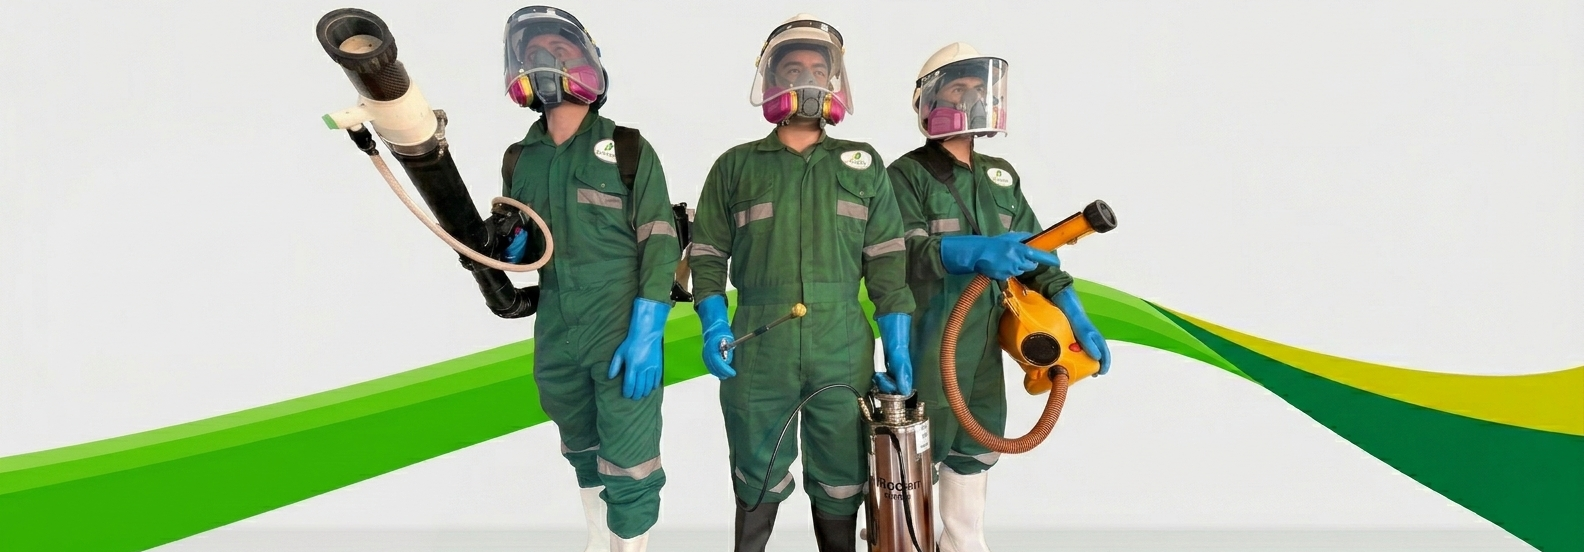
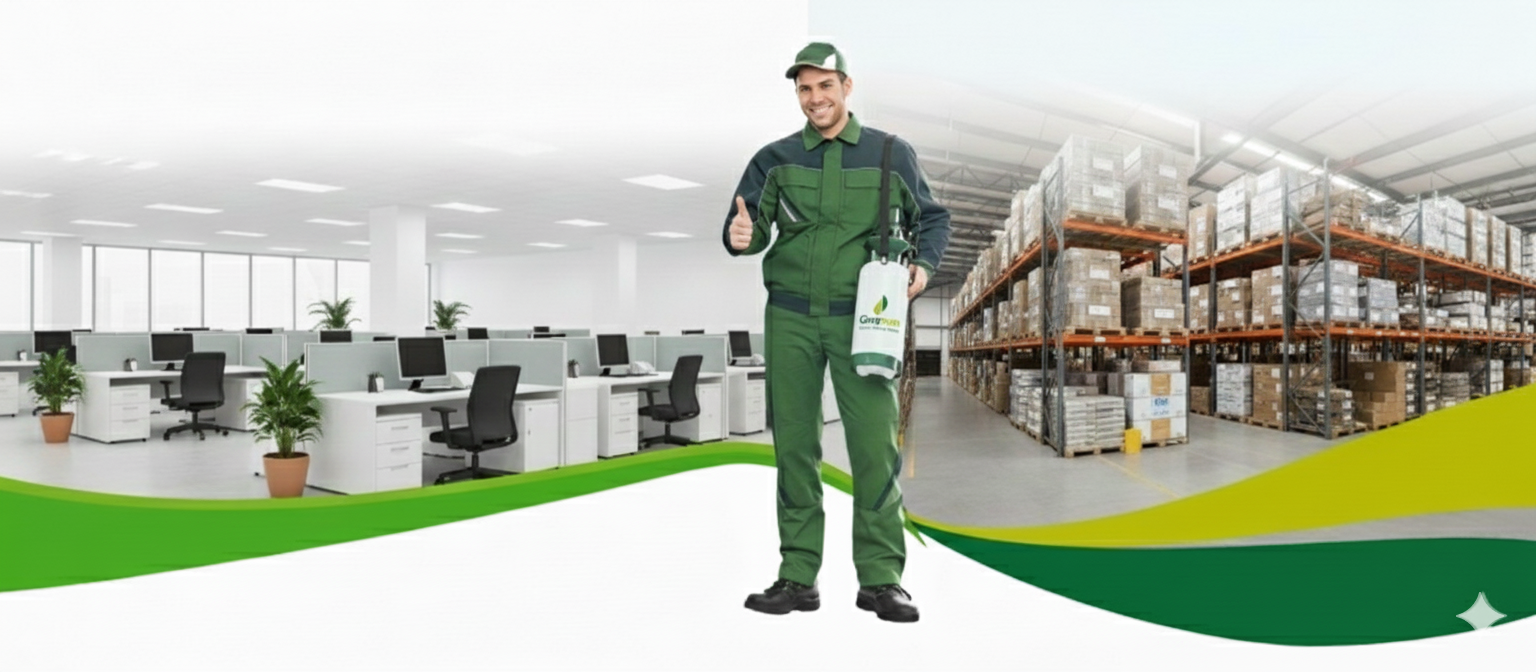
add_new_image_to_home_view

diff --git a/src/views/Home-item.vue b/src/views/Home-item.vue
@@ -13,8 +13,9 @@ import img1 from '@/assets/picture1.png';
 import img2 from '@/assets/picture2.png';
 import img3 from '@/assets/picture3.png';
 import img4 from '@/assets/picture4.png';
+import img5 from '@/assets/picture5.png';
 
-const images = [img1, img2, img3, img4];
+const images = [img1, img2, img3, img4, img5];
 
 const currentImageIndex = ref(0);
 const intervalId = ref(null);